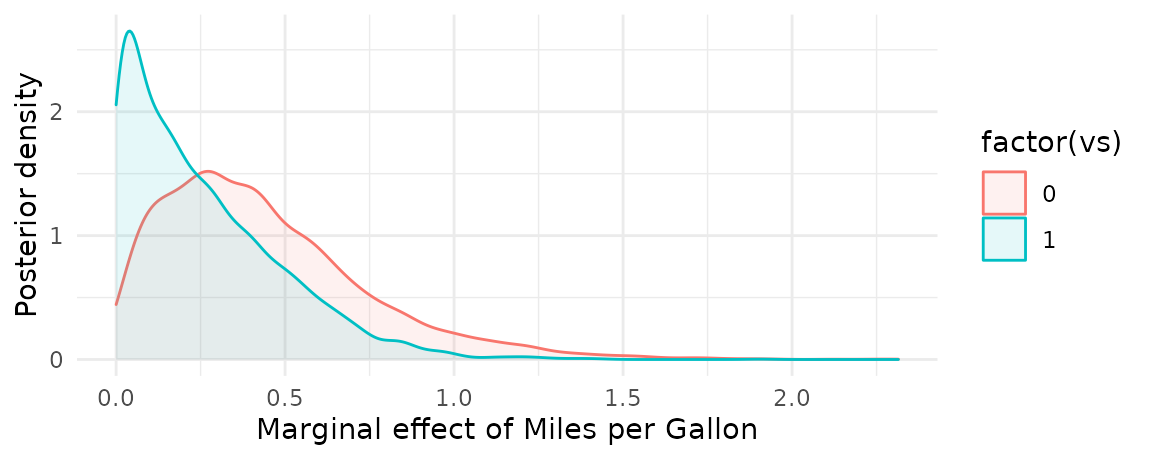
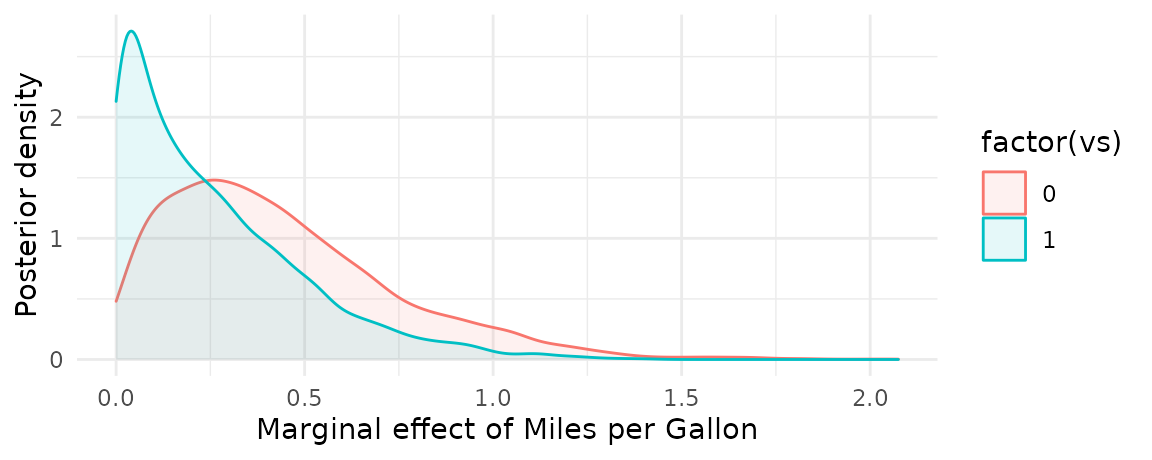
Built site for marginaleffects: 0.2.0@c9a0f6e

diff --git a/articles/brms.html b/articles/brms.html
@@ -101,10 +101,10 @@
 <code class="sourceCode R"><span class="va">mfx</span> <span class="op">&lt;-</span> <span class="fu"><a href="../reference/marginaleffects.html">marginaleffects</a></span><span class="op">(</span><span class="va">mod</span><span class="op">)</span>
 <span class="fu"><a href="https://rdrr.io/r/base/summary.html">summary</a></span><span class="op">(</span><span class="va">mfx</span><span class="op">)</span>
 <span class="co">#&gt; Average marginal effects </span>
-<span class="co">#&gt;       type Term    Effect</span>
-<span class="co">#&gt; 1 response   hp  0.008997</span>
-<span class="co">#&gt; 2 response  mpg  0.192968</span>
-<span class="co">#&gt; 3 response   vs -0.136483</span>
+<span class="co">#&gt;       type Term   Effect</span>
+<span class="co">#&gt; 1 response   hp  0.00913</span>
+<span class="co">#&gt; 2 response  mpg  0.19473</span>
+<span class="co">#&gt; 3 response   vs -0.13535</span>
 <span class="co">#&gt; </span>
 <span class="co">#&gt; Model type:  brmsfit </span>
 <span class="co">#&gt; Prediction type:  response</span></code></pre></div>
@@ -112,19 +112,19 @@
 <div class="sourceCode" id="cb5"><pre class="downlit sourceCode r">
 <code class="sourceCode R"><span class="fu"><a href="../reference/marginaleffects.html">marginaleffects</a></span><span class="op">(</span><span class="va">mod</span>, newdata <span class="op">=</span> <span class="fu"><a href="../reference/typical.html">typical</a></span><span class="op">(</span>hp <span class="op">=</span> <span class="fu"><a href="https://rdrr.io/r/base/c.html">c</a></span><span class="op">(</span><span class="fl">110</span>, <span class="fl">130</span><span class="op">)</span><span class="op">)</span><span class="op">)</span>
 <span class="co">#&gt;   rowid     type term         dydx      conf.low  conf.high      mpg     vs  hp</span>
-<span class="co">#&gt; 1     1 response   hp  0.005009664  1.586012e-07 0.01452265 20.09062 0.4375 110</span>
-<span class="co">#&gt; 2     2 response   hp  0.028629680  9.132344e-04 0.06179697 20.09062 0.4375 130</span>
-<span class="co">#&gt; 3     1 response  mpg  0.123676410  3.329554e-06 0.36435445 20.09062 0.4375 110</span>
-<span class="co">#&gt; 4     2 response  mpg  0.665106298  5.667745e-02 1.37599687 20.09062 0.4375 130</span>
-<span class="co">#&gt; 5     1 response   vs -0.061828666 -4.980356e-01 0.22531220 20.09062 0.4375 110</span>
-<span class="co">#&gt; 6     2 response   vs -0.062369172 -1.018522e+00 0.94920468 20.09062 0.4375 130</span>
-<span class="co">#&gt;    predicted</span>
-<span class="co">#&gt; 1 0.06239872</span>
-<span class="co">#&gt; 2 0.35841811</span>
-<span class="co">#&gt; 3 0.06239872</span>
-<span class="co">#&gt; 4 0.35841811</span>
-<span class="co">#&gt; 5 0.06239872</span>
-<span class="co">#&gt; 6 0.35841811</span></code></pre></div>
+<span class="co">#&gt; 1     1 response   hp  0.005054385  1.933428e-07 0.01570575 20.09062 0.4375 110</span>
+<span class="co">#&gt; 2     2 response   hp  0.029187760  1.665589e-03 0.06221857 20.09062 0.4375 130</span>
+<span class="co">#&gt; 3     1 response  mpg  0.123783728  4.686195e-06 0.38460702 20.09062 0.4375 110</span>
+<span class="co">#&gt; 4     2 response  mpg  0.677086582  6.792528e-02 1.39347208 20.09062 0.4375 130</span>
+<span class="co">#&gt; 5     1 response   vs -0.051793714 -4.431143e-01 0.23974027 20.09062 0.4375 110</span>
+<span class="co">#&gt; 6     2 response   vs -0.044223824 -9.918972e-01 0.92515409 20.09062 0.4375 130</span>
+<span class="co">#&gt;   predicted</span>
+<span class="co">#&gt; 1 0.0614266</span>
+<span class="co">#&gt; 2 0.3645255</span>
+<span class="co">#&gt; 3 0.0614266</span>
+<span class="co">#&gt; 4 0.3645255</span>
+<span class="co">#&gt; 5 0.0614266</span>
+<span class="co">#&gt; 6 0.3645255</span></code></pre></div>
 <p>The <code>get_posterior_draws</code> produces a dataset with <code>drawid</code> and <code>draw</code> columns.</p>
 <div class="sourceCode" id="cb6"><pre class="downlit sourceCode r">
 <code class="sourceCode R"><span class="va">draws</span> <span class="op">&lt;-</span> <span class="fu"><a href="../reference/get_posterior_draws.html">get_posterior_draws</a></span><span class="op">(</span><span class="va">mfx</span><span class="op">)</span>
@@ -134,19 +134,19 @@
 
 <span class="fu"><a href="https://rdrr.io/r/utils/head.html">head</a></span><span class="op">(</span><span class="va">draws</span><span class="op">)</span>
 <span class="co">#&gt;   drawid         draw rowid     type term         dydx     conf.low   conf.high</span>
-<span class="co">#&gt; 1      1 0.7482394155     1 response   hp 0.0265715678 3.209755e-04 0.061100507</span>
-<span class="co">#&gt; 2      1 0.7482394155     2 response   hp 0.0265715678 3.209755e-04 0.061100507</span>
-<span class="co">#&gt; 3      1 0.2148592992     3 response   hp 0.0311533643 3.081577e-03 0.065726421</span>
-<span class="co">#&gt; 4      1 0.1801588661     4 response   hp 0.0276132666 1.391587e-04 0.062803039</span>
-<span class="co">#&gt; 5      1 0.6460287911     5 response   hp 0.0301921109 3.829218e-03 0.064615077</span>
-<span class="co">#&gt; 6      1 0.0007271514     6 response   hp 0.0003160989 1.598479e-17 0.001647896</span>
+<span class="co">#&gt; 1      1 1.253209e+00     1 response   hp 0.0266843350 9.391269e-05 0.060035795</span>
+<span class="co">#&gt; 2      1 1.253209e+00     2 response   hp 0.0266843350 9.391269e-05 0.060035795</span>
+<span class="co">#&gt; 3      1 9.439373e-01     3 response   hp 0.0316968332 4.265189e-03 0.065521407</span>
+<span class="co">#&gt; 4      1 8.716368e-01     4 response   hp 0.0279387091 2.753387e-05 0.062708162</span>
+<span class="co">#&gt; 5      1 2.042591e+00     5 response   hp 0.0306989585 3.550460e-03 0.063169133</span>
+<span class="co">#&gt; 6      1 2.021359e-06     6 response   hp 0.0003484769 2.708291e-17 0.001741508</span>
 <span class="co">#&gt;   am  mpg vs  hp   predicted</span>
-<span class="co">#&gt; 1  1 21.0  0 110 0.591995672</span>
-<span class="co">#&gt; 2  1 21.0  0 110 0.591995672</span>
-<span class="co">#&gt; 3  1 22.8  1  93 0.468556391</span>
-<span class="co">#&gt; 4  0 21.4  1 110 0.330869171</span>
-<span class="co">#&gt; 5  0 18.7  0 175 0.526394166</span>
-<span class="co">#&gt; 6  0 18.1  1 105 0.004093977</span></code></pre></div>
+<span class="co">#&gt; 1  1 21.0  0 110 0.597247202</span>
+<span class="co">#&gt; 2  1 21.0  0 110 0.597247202</span>
+<span class="co">#&gt; 3  1 22.8  1  93 0.468149154</span>
+<span class="co">#&gt; 4  0 21.4  1 110 0.336411798</span>
+<span class="co">#&gt; 5  0 18.7  0 175 0.522823862</span>
+<span class="co">#&gt; 6  0 18.1  1 105 0.004468365</span></code></pre></div>
 <p>We can use this dataset to plot our results. For example, to plot the posterior density of the marginal effect when the <code>vs</code> variable is equal to 0 or 1:</p>
 <div class="sourceCode" id="cb7"><pre class="downlit sourceCode r">
 <code class="sourceCode R"><span class="fu"><a href="../reference/marginaleffects.html">marginaleffects</a></span><span class="op">(</span><span class="va">mod</span>, variables <span class="op">=</span> <span class="st">"mpg"</span>, newdata <span class="op">=</span> <span class="fu"><a href="../reference/typical.html">typical</a></span><span class="op">(</span>vs <span class="op">=</span> <span class="fl">0</span><span class="op">:</span><span class="fl">1</span><span class="op">)</span><span class="op">)</span> |&gt;

diff --git a/articles/contrasts.html b/articles/contrasts.html
@@ -99,14 +99,14 @@
 <code class="sourceCode R"><span class="va">mfx</span> <span class="op">&lt;-</span> <span class="fu"><a href="../reference/marginaleffects.html">marginaleffects</a></span><span class="op">(</span><span class="va">mod</span><span class="op">)</span>
 <span class="fu"><a href="https://rdrr.io/r/base/summary.html">summary</a></span><span class="op">(</span><span class="va">mfx</span><span class="op">)</span>
 <span class="co">#&gt; Average marginal effects </span>
-<span class="co">#&gt;       type         Term  Effect Std. Error z value   Pr(&gt;|z|)   2.5 %   97.5 %</span>
-<span class="co">#&gt; 1 response       amTRUE  -2.560      1.298  -1.973    0.04851  -5.103 -0.01675</span>
-<span class="co">#&gt; 2 response factor(cyl)6  -6.156      1.536  -4.009 6.1077e-05  -9.166 -3.14616</span>
-<span class="co">#&gt; 3 response factor(cyl)8 -10.068      1.452  -6.933 4.1147e-12 -12.914 -7.22153</span>
+<span class="co">#&gt;       type         Term  Effect Std. Error z value   Pr(&gt;|z|)     2.5 % 97.5 %</span>
+<span class="co">#&gt; 1 response       amTRUE   2.560      1.298   1.973    0.04851   0.01675  5.103</span>
+<span class="co">#&gt; 2 response factor(cyl)6  -6.156      1.536  -4.009 6.1077e-05  -9.16608 -3.146</span>
+<span class="co">#&gt; 3 response factor(cyl)8 -10.068      1.452  -6.933 4.1147e-12 -12.91359 -7.222</span>
 <span class="co">#&gt; </span>
 <span class="co">#&gt; Model type:  lm </span>
 <span class="co">#&gt; Prediction type:  response</span></code></pre></div>
-<p>The summary printed above says that moving from the reference category <code>4</code> to the level <code>6</code> on the <code>cyl</code> factor variable is associated with a change of -6.156 in the adjusted prediction. Similarly, the contrast from <code>FALSE</code> to <code>TRUE</code> on the <code>am</code> variable is equal to -2.560.</p>
+<p>The summary printed above says that moving from the reference category <code>4</code> to the level <code>6</code> on the <code>cyl</code> factor variable is associated with a change of -6.156 in the adjusted prediction. Similarly, the contrast from <code>FALSE</code> to <code>TRUE</code> on the <code>am</code> variable is equal to 2.560.</p>
 <p>We can obtain the same results using the <code>emmeans</code> package:</p>
 <div class="sourceCode" id="cb3"><pre class="downlit sourceCode r">
 <code class="sourceCode R"><span class="kw"><a href="https://rdrr.io/r/base/library.html">library</a></span><span class="op">(</span><span class="va"><a href="https://github.com/rvlenth/emmeans">emmeans</a></span><span class="op">)</span>
@@ -136,10 +136,10 @@
 <p>We can now use the <code>newdata</code> argument of the <code>marginaleffects</code> function to compute contrasts for different values of the other regressors. As in <a href="https://vincentarelbundock.github.io/marginaleffects/articles/mfx.html">the marginal effects vignette</a>, the <code>typical</code> function can be handy. Since we only care about the logical <code>am</code> contrast, we use the <code>variables</code> to indicate the subset of results to report:</p>
 <div class="sourceCode" id="cb5"><pre class="downlit sourceCode r">
 <code class="sourceCode R"><span class="fu"><a href="../reference/marginaleffects.html">marginaleffects</a></span><span class="op">(</span><span class="va">mod_int</span>, newdata <span class="op">=</span> <span class="fu"><a href="../reference/typical.html">typical</a></span><span class="op">(</span>cyl <span class="op">=</span> <span class="va">tmp</span><span class="op">$</span><span class="va">cyl</span><span class="op">)</span>, variables <span class="op">=</span> <span class="st">"am"</span><span class="op">)</span>
-<span class="co">#&gt;   rowid     type   term      dydx std.error    am cyl predicted</span>
-<span class="co">#&gt; 1     1 response amTRUE -1.441667  2.315925 FALSE   6    19.125</span>
-<span class="co">#&gt; 2     2 response amTRUE -5.175000  2.052848 FALSE   4    22.900</span>
-<span class="co">#&gt; 3     3 response amTRUE -0.350000  2.315925 FALSE   8    15.050</span></code></pre></div>
+<span class="co">#&gt;   rowid     type   term     dydx std.error    am cyl predicted</span>
+<span class="co">#&gt; 1     1 response amTRUE 1.441667  2.315925 FALSE   6    19.125</span>
+<span class="co">#&gt; 2     2 response amTRUE 5.175000  2.052848 FALSE   4    22.900</span>
+<span class="co">#&gt; 3     3 response amTRUE 0.350000  2.315925 FALSE   8    15.050</span></code></pre></div>
 <p>Once again, we obtain the same results with <code>emmeans</code>:</p>
 <div class="sourceCode" id="cb6"><pre class="downlit sourceCode r">
 <code class="sourceCode R"><span class="va">emm</span> <span class="op">&lt;-</span> <span class="fu"><a href="https://rdrr.io/pkg/emmeans/man/emmeans.html">emmeans</a></span><span class="op">(</span><span class="va">mod_int</span>, specs <span class="op">=</span> <span class="st">"am"</span>, by <span class="op">=</span> <span class="st">"cyl"</span><span class="op">)</span>

diff --git a/articles/mfx.html b/articles/mfx.html
@@ -259,11 +259,11 @@
     <span class="fu"><a href="https://dplyr.tidyverse.org/reference/mutate.html">mutate</a></span><span class="op">(</span>truth <span class="op">=</span> <span class="fl">1</span> <span class="op">+</span> <span class="fl">4</span> <span class="op">*</span> <span class="va">x</span><span class="op">)</span> <span class="op"><a href="https://magrittr.tidyverse.org/reference/pipe.html">%&gt;%</a></span>
     <span class="fu"><a href="https://dplyr.tidyverse.org/reference/select.html">select</a></span><span class="op">(</span><span class="va">dydx</span>, <span class="va">truth</span><span class="op">)</span>
 <span class="co">#&gt;         dydx truth</span>
-<span class="co">#&gt; 1 -6.9966313    -7</span>
-<span class="co">#&gt; 2 -2.9984106    -3</span>
-<span class="co">#&gt; 3  0.9998102     1</span>
-<span class="co">#&gt; 4  4.9980310     5</span>
-<span class="co">#&gt; 5  8.9962517     9</span></code></pre></div>
+<span class="co">#&gt; 1 -6.9923993    -7</span>
+<span class="co">#&gt; 2 -2.9965455    -3</span>
+<span class="co">#&gt; 3  0.9993082     1</span>
+<span class="co">#&gt; 4  4.9951619     5</span>
+<span class="co">#&gt; 5  8.9910156     9</span></code></pre></div>
 <p>We can also plot the result with the <code>plot_cme</code> function (see section below):</p>
 <div class="sourceCode" id="cb12"><pre class="downlit sourceCode r">
 <code class="sourceCode R"><span class="fu"><a href="../reference/plot_cme.html">plot_cme</a></span><span class="op">(</span><span class="va">mod</span>, effect <span class="op">=</span> <span class="st">"x"</span>, condition <span class="op">=</span> <span class="st">"x"</span><span class="op">)</span></code></pre></div>
